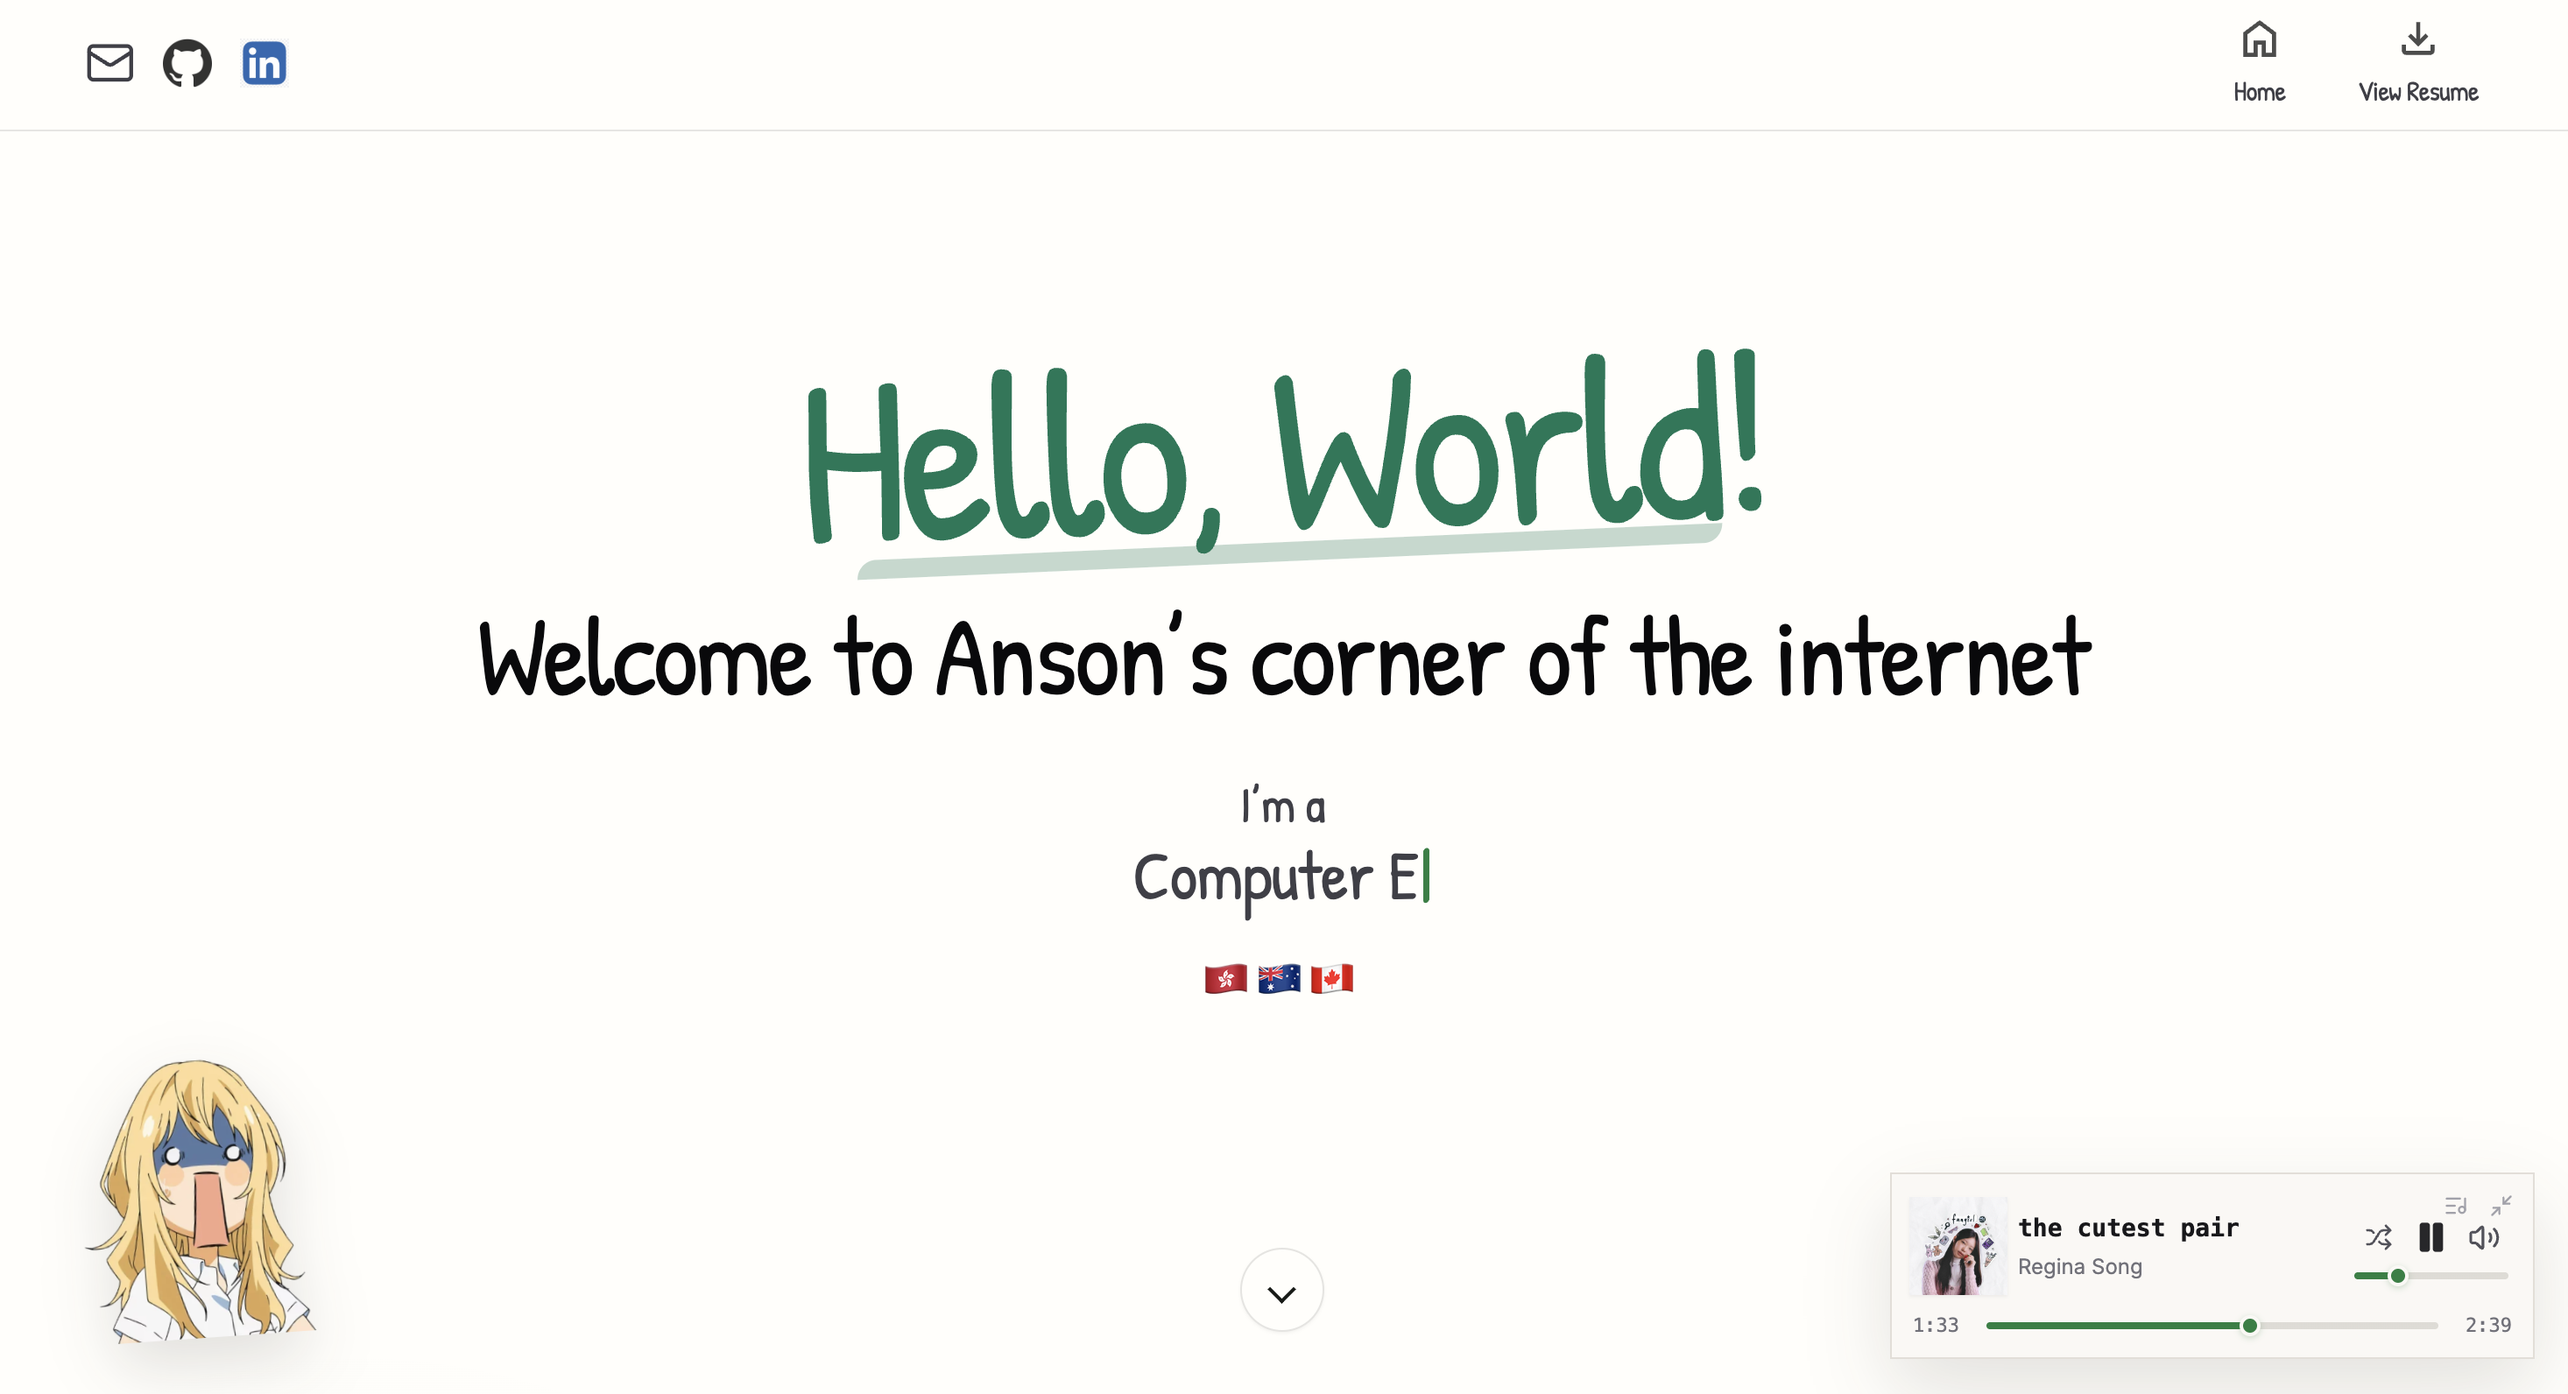
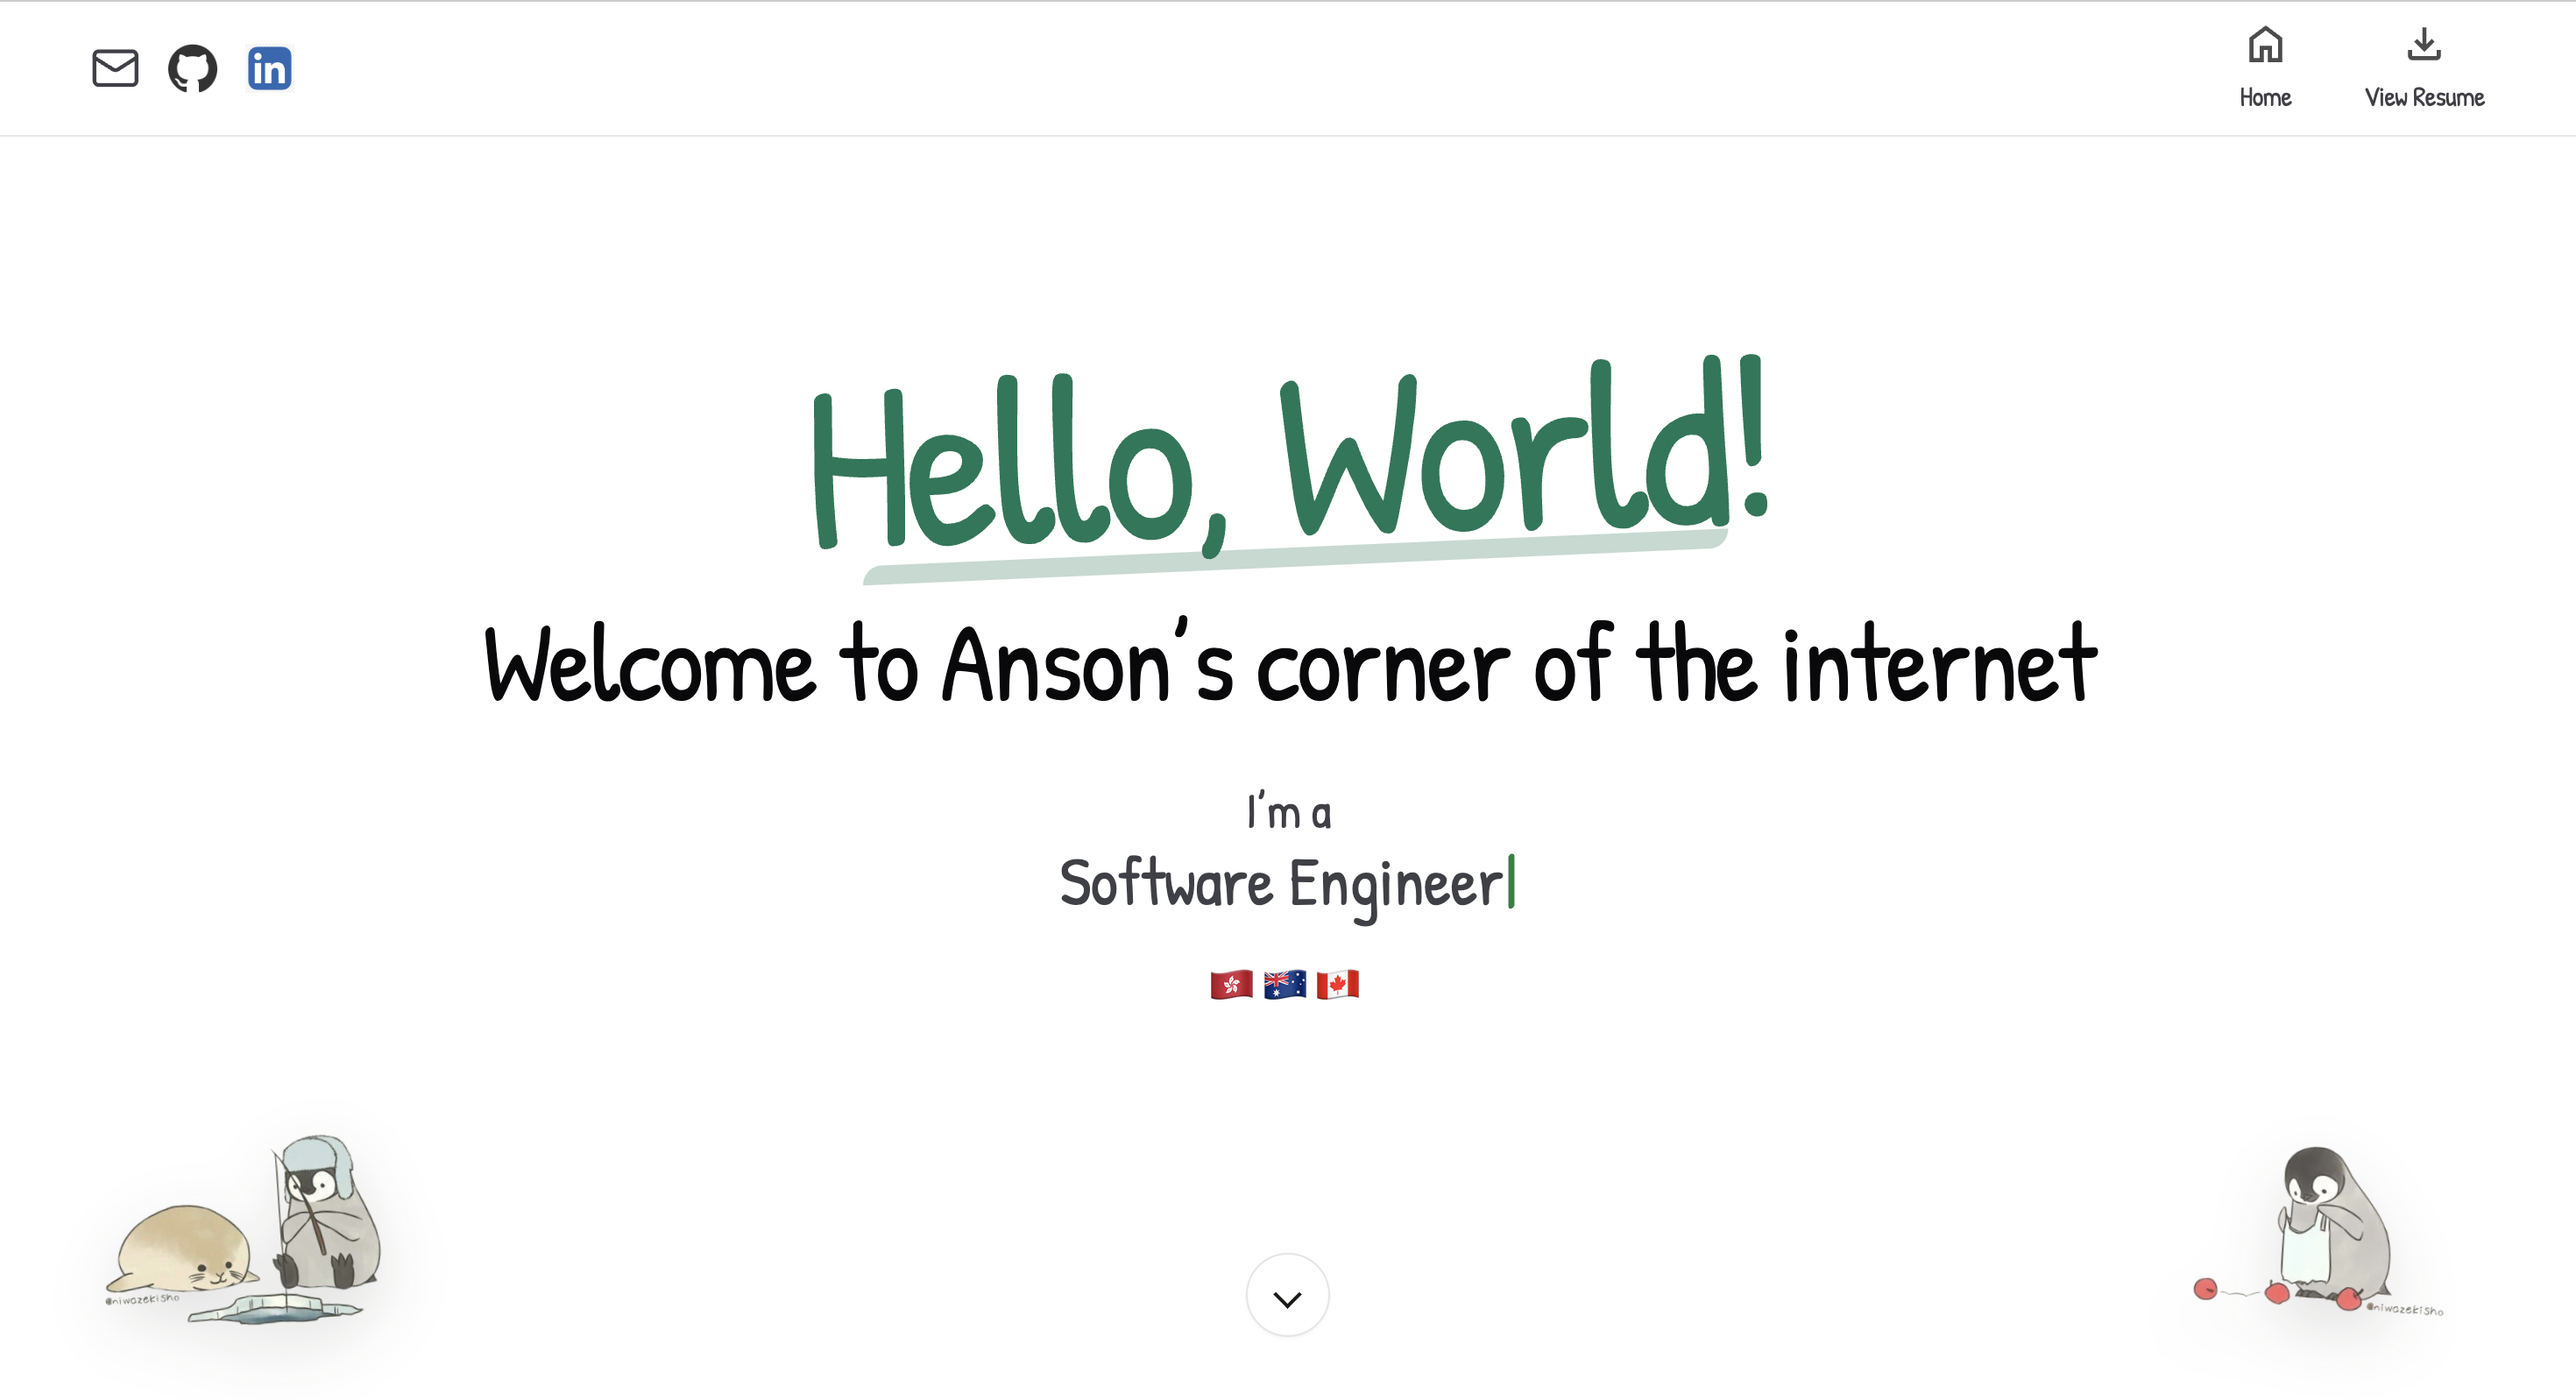
added compression

diff --git a/src/data/portfolio.ts b/src/data/portfolio.ts
@@ -191,7 +191,7 @@ export const experiences: Experience[] = [
     gallery: {
       images: [
         {
-          src: "/assets/experiences/scalepad_volunteer.jpg",
+          src: "/assets/experiences/scalepad_volunteer.webp",
           alt: "The ScalePad team together during a company Serve Day",
           caption: "ScalePad Volunteering @ David Lam Park, Vancouver, BC"
         }
@@ -302,16 +302,16 @@ export const projects: Project[] = [
     title: "Personal Portfolio",
     description:
       "You're on it now silly 🤦. I've done a lot of revamping since the first version. I hope you enjoy the design and features.",
-    image: "/assets/projects/personal-portfolio/portfolio_pic1.png",
+    image: "/assets/projects/personal-portfolio/portfolio_pic1.webp",
     icon: "/assets/test_favicon.jpg",
     gallery: {
       images: [
         {
-          src: "/assets/projects/personal-portfolio/portfolio_pic1.png",
+          src: "/assets/projects/personal-portfolio/portfolio_pic1.webp",
           alt: "Personal portfolio home page"
         },
         {
-          src: "/assets/projects/personal-portfolio/portfolio_pic2.png",
+          src: "/assets/projects/personal-portfolio/portfolio_pic2.webp",
           alt: "Personal portfolio projects section"
         }
       ]
@@ -321,6 +321,7 @@ export const projects: Project[] = [
     live: "https://www.ansonnchan.dev/",
     details: [
       "Added a server-side API route that calls GitHub’s GraphQL contributionCalendar API.",
+      "Optimized hard-refresh gallery performance by compressing oversized media and preloading key accordion images.",
       //"Please enjoy :)"
       //"Rendered the contribution data as a Jan-Dec activity heatmap with normalized weeks, month labels, hover titles, dark-mode styling, and future days greyed out."
     ]
@@ -329,12 +330,12 @@ export const projects: Project[] = [
     title: "Pear Programming",
     description:
       "A collaborative coding editor with real-time editing, shared workspaces, and AI-assisted coding features.",
-    image: "/assets/projects/pear-programming/pear-program-pic2.png",
+    image: "/assets/projects/pear-programming/pear-program-pic2.webp",
     icon: "/assets/projects/pear-programming/pear-programming-favicon.png",
     gallery: {
       images: [
         {
-          src: "/assets/projects/pear-programming/pear-program-pic3.png",
+          src: "/assets/projects/pear-programming/pear-program-pic3.webp",
           alt: "Pear Programming collaborative code editor"
         },
         {
@@ -366,19 +367,19 @@ export const projects: Project[] = [
     title: "Jukebox",
     description:
       "Drop a coin in the jukebox of your feelings. Five AI personalities ready to spin whatever mood you're in.",
-    image: "/assets/projects/hear-me-out/vent.ai_pic1.png",
+    image: "/assets/projects/hear-me-out/vent.ai_pic1.webp",
     icon: "/assets/projects/hear-me-out/vent.ai_icon.png",
     gallery: {
       images: [
         {
-          src: "/assets/projects/hear-me-out/vent.ai_pic1.png",
+          src: "/assets/projects/hear-me-out/vent.ai_pic1.webp",
           alt: "Hear Me Out AI personality selection screen"
         },
         {
           src: "/assets/projects/hear-me-out/hear-me-out-demo.mp4",
           alt: "Hear Me Out AI conversation demo",
           mediaType: "video",
-          fallbackSrc: "/assets/projects/hear-me-out/vent.ai_pic2.png"
+          fallbackSrc: "/assets/projects/hear-me-out/vent.ai_pic2.webp"
         }
       ]
     },
@@ -394,17 +395,17 @@ export const projects: Project[] = [
   {
     title: "Dead Code Explorer",
     description: "A VS Code extension that helps you identify dead code from your project with confidence-ranked evidence.",
-    image: "/assets/projects/dead-code-explorer/dead-code-explorer-pic-1.png",
+    image: "/assets/projects/dead-code-explorer/dead-code-explorer-pic-1.webp",
     icon: "/assets/projects/dead-code-explorer/dead-code-explorer-icon.png",
     gallery: {
       images: [
         {
-          src: "/assets/projects/dead-code-explorer/dead-code-explorer-pic-2.png",
+          src: "/assets/projects/dead-code-explorer/dead-code-explorer-pic-2.webp",
           alt: "Dead Code Explorer screenshot 2",
           fit: "fill"
         },
         {
-          src: "/assets/projects/dead-code-explorer/dead-code-explorer-pic-1.png",
+          src: "/assets/projects/dead-code-explorer/dead-code-explorer-pic-1.webp",
           alt: "Dead Code Explorer screenshot 3",
           fit: "natural"
         }
@@ -458,7 +459,7 @@ export const sideQuests = {
   ],
   shows: [
     {
-      src: "/assets/sidequests/anson_violin.JPG",
+      src: "/assets/sidequests/anson_violin.webp",
       alt: "Young Anson holding a violin before a performance",
       caption: "peak camera quality"
     },

diff --git a/src/components/ExperienceCard.tsx b/src/components/ExperienceCard.tsx
@@ -5,6 +5,7 @@ import { useState } from "react";
 import type { Experience } from "@/data/portfolio";
 import CardGallery from "@/components/CardGallery";
 import RichText from "@/components/RichText";
+import { preloadGalleryImages } from "@/lib/preloadGalleryImages";
 
 type ExperienceCardProps = {
   experience: Experience;
@@ -13,6 +14,7 @@ type ExperienceCardProps = {
 export default function ExperienceCard({ experience }: ExperienceCardProps) {
   const [isOpen, setIsOpen] = useState(Boolean(experience.defaultOpen));
   const toggleOpen = () => setIsOpen((current) => !current);
+  const preloadGallery = () => preloadGalleryImages(experience.gallery);
 
   const handleKeyDown = (event: KeyboardEvent<HTMLElement>) => {
     if (event.target !== event.currentTarget) {
@@ -28,8 +30,11 @@ export default function ExperienceCard({ experience }: ExperienceCardProps) {
   return (
     <article
       className="comic-card doodle-corner surface-card cursor-pointer p-4 transition hover:-translate-y-1 focus-visible:outline-none focus-visible:ring-2 focus-visible:ring-emerald-500/35 sm:p-5"
+      onFocus={preloadGallery}
       onClick={toggleOpen}
       onKeyDown={handleKeyDown}
+      onPointerEnter={preloadGallery}
+      onPointerDown={preloadGallery}
       role="button"
       tabIndex={0}
     >

diff --git a/src/components/ProjectCard.tsx b/src/components/ProjectCard.tsx
@@ -4,6 +4,7 @@ import type { KeyboardEvent, MouseEvent } from "react";
 import { useState } from "react";
 import type { Project } from "@/data/portfolio";
 import CardGallery from "@/components/CardGallery";
+import { preloadGalleryImages } from "@/lib/preloadGalleryImages";
 
 type ProjectCardProps = {
   project: Project;
@@ -12,6 +13,7 @@ type ProjectCardProps = {
 export default function ProjectCard({ project }: ProjectCardProps) {
   const [isOpen, setIsOpen] = useState(false);
   const toggleOpen = () => setIsOpen((current) => !current);
+  const preloadGallery = () => preloadGalleryImages(project.gallery);
 
   const handleKeyDown = (event: KeyboardEvent<HTMLElement>) => {
     if (event.target !== event.currentTarget) {
@@ -31,8 +33,11 @@ export default function ProjectCard({ project }: ProjectCardProps) {
   return (
     <article
       className="comic-card doodle-corner surface-card cursor-pointer p-4 transition hover:-translate-y-1 focus-visible:outline-none focus-visible:ring-2 focus-visible:ring-emerald-500/35 sm:p-5"
+      onFocus={preloadGallery}
       onClick={toggleOpen}
       onKeyDown={handleKeyDown}
+      onPointerEnter={preloadGallery}
+      onPointerDown={preloadGallery}
       role="button"
       tabIndex={0}
     >

diff --git a/src/app/layout.tsx b/src/app/layout.tsx
@@ -9,6 +9,16 @@ const patrickHand = Patrick_Hand({
   weight: "400"
 });
 
+const prefetchedGalleryImages = [
+  "/assets/projects/personal-portfolio/portfolio_pic1.webp",
+  "/assets/projects/personal-portfolio/portfolio_pic2.webp",
+  "/assets/projects/pear-programming/pear-program-pic3.webp",
+  "/assets/projects/hear-me-out/vent.ai_pic1.webp",
+  "/assets/projects/hear-me-out/vent.ai_pic2.webp",
+  "/assets/projects/dead-code-explorer/dead-code-explorer-pic-1.webp",
+  "/assets/projects/dead-code-explorer/dead-code-explorer-pic-2.webp"
+];
+
 export const metadata: Metadata = {
   title: "Anson Chan's Portfolio",
   description:
@@ -33,6 +43,15 @@ export default function RootLayout({
           rel="preload"
           type="video/mp4"
         />
+        <link
+          as="image"
+          href="/assets/experiences/scalepad_volunteer.webp"
+          rel="preload"
+          type="image/webp"
+        />
+        {prefetchedGalleryImages.map((href) => (
+          <link as="image" href={href} key={href} rel="prefetch" type="image/webp" />
+        ))}
       </head>
       <body className={patrickHand.variable}>{children}</body>
     </html>

diff --git a/src/components/CardGallery.tsx b/src/components/CardGallery.tsx
@@ -46,7 +46,8 @@ export default function CardGallery({ gallery }: CardGalleryProps) {
                   <img
                     alt={image.alt}
                     className="aspect-video w-full object-cover"
-                    loading="lazy"
+                    decoding="async"
+                    loading="eager"
                     src={image.fallbackSrc}
                   />
                 ) : null}
@@ -61,7 +62,8 @@ export default function CardGallery({ gallery }: CardGalleryProps) {
                       ? "h-full w-full"
                       : "aspect-video w-full object-cover"
                 }
-                loading="lazy"
+                decoding="async"
+                loading="eager"
                 src={image.src}
               />
             )}

diff --git a/src/lib/preloadGalleryImages.ts b/src/lib/preloadGalleryImages.ts
@@ -1,0 +1,30 @@
+import type { ImageGallery } from "@/data/portfolio";
+
+const preloadedImages = new Set<string>();
+
+function preloadImage(src: string) {
+  if (typeof window === "undefined" || preloadedImages.has(src)) {
+    return;
+  }
+
+  const image = new Image();
+  image.decoding = "async";
+  image.src = src;
+  preloadedImages.add(src);
+}
+
+export function preloadGalleryImages(gallery?: ImageGallery) {
+  if (!gallery) {
+    return;
+  }
+
+  for (const galleryImage of gallery.images) {
+    if (galleryImage.mediaType !== "video") {
+      preloadImage(galleryImage.src);
+    }
+
+    if (galleryImage.fallbackSrc) {
+      preloadImage(galleryImage.fallbackSrc);
+    }
+  }
+}

diff --git a/src/components/SideQuestGallery.tsx b/src/components/SideQuestGallery.tsx
@@ -12,6 +12,7 @@ export default function SideQuestGallery() {
             <img
               alt={show.alt}
               className="h-full w-full object-cover"
+              decoding="async"
               loading="lazy"
               src={show.src}
             />
